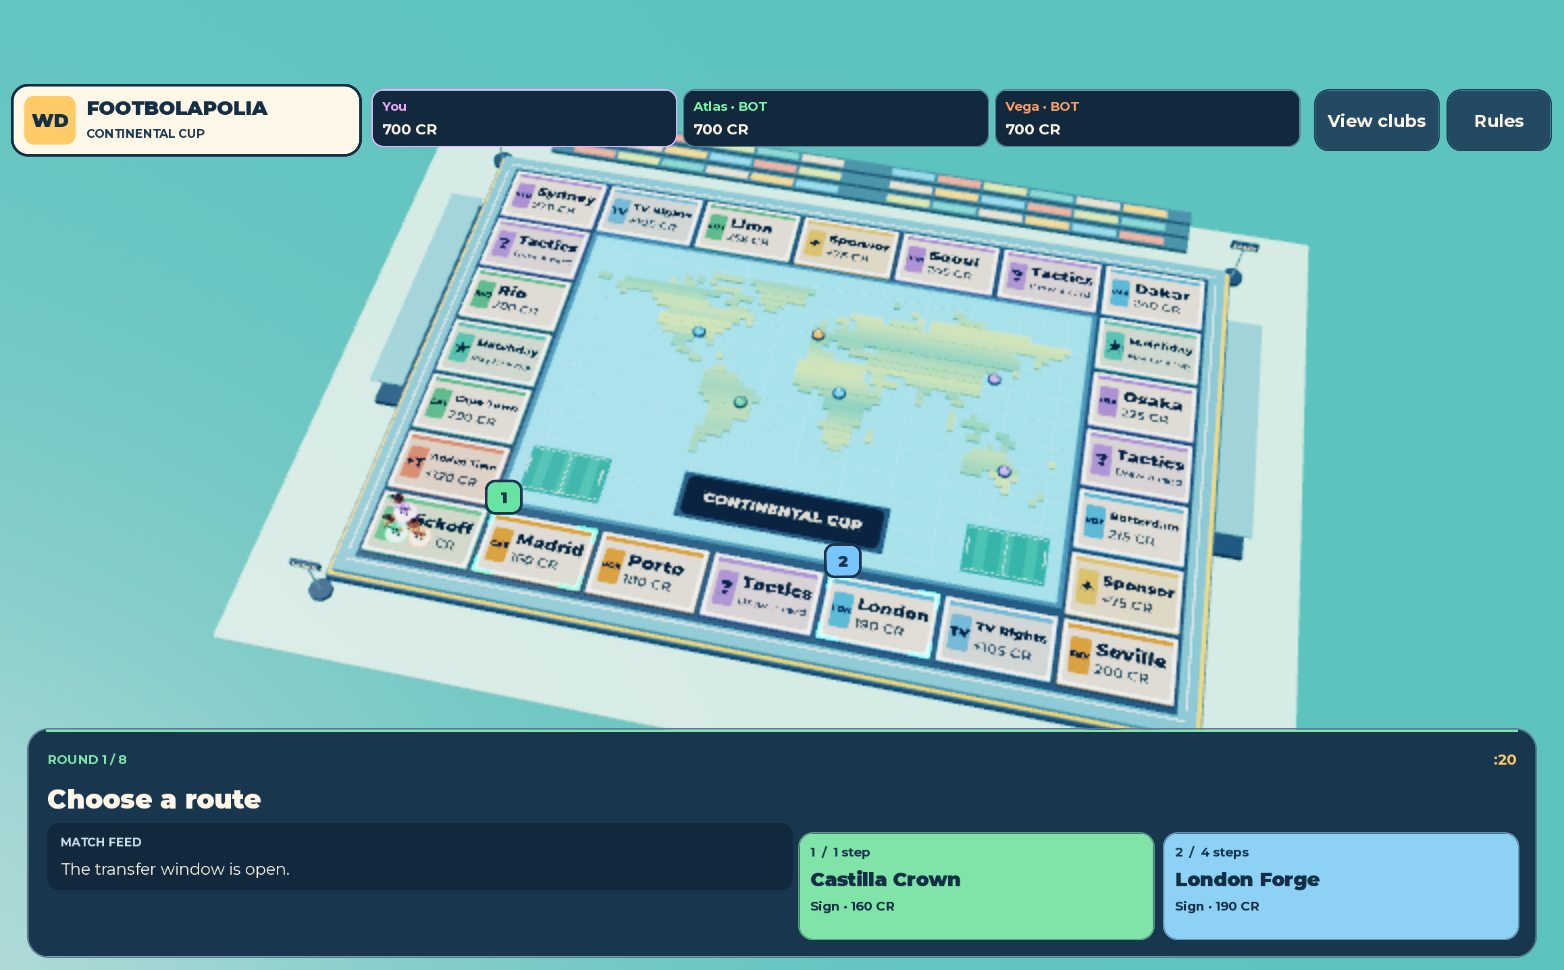
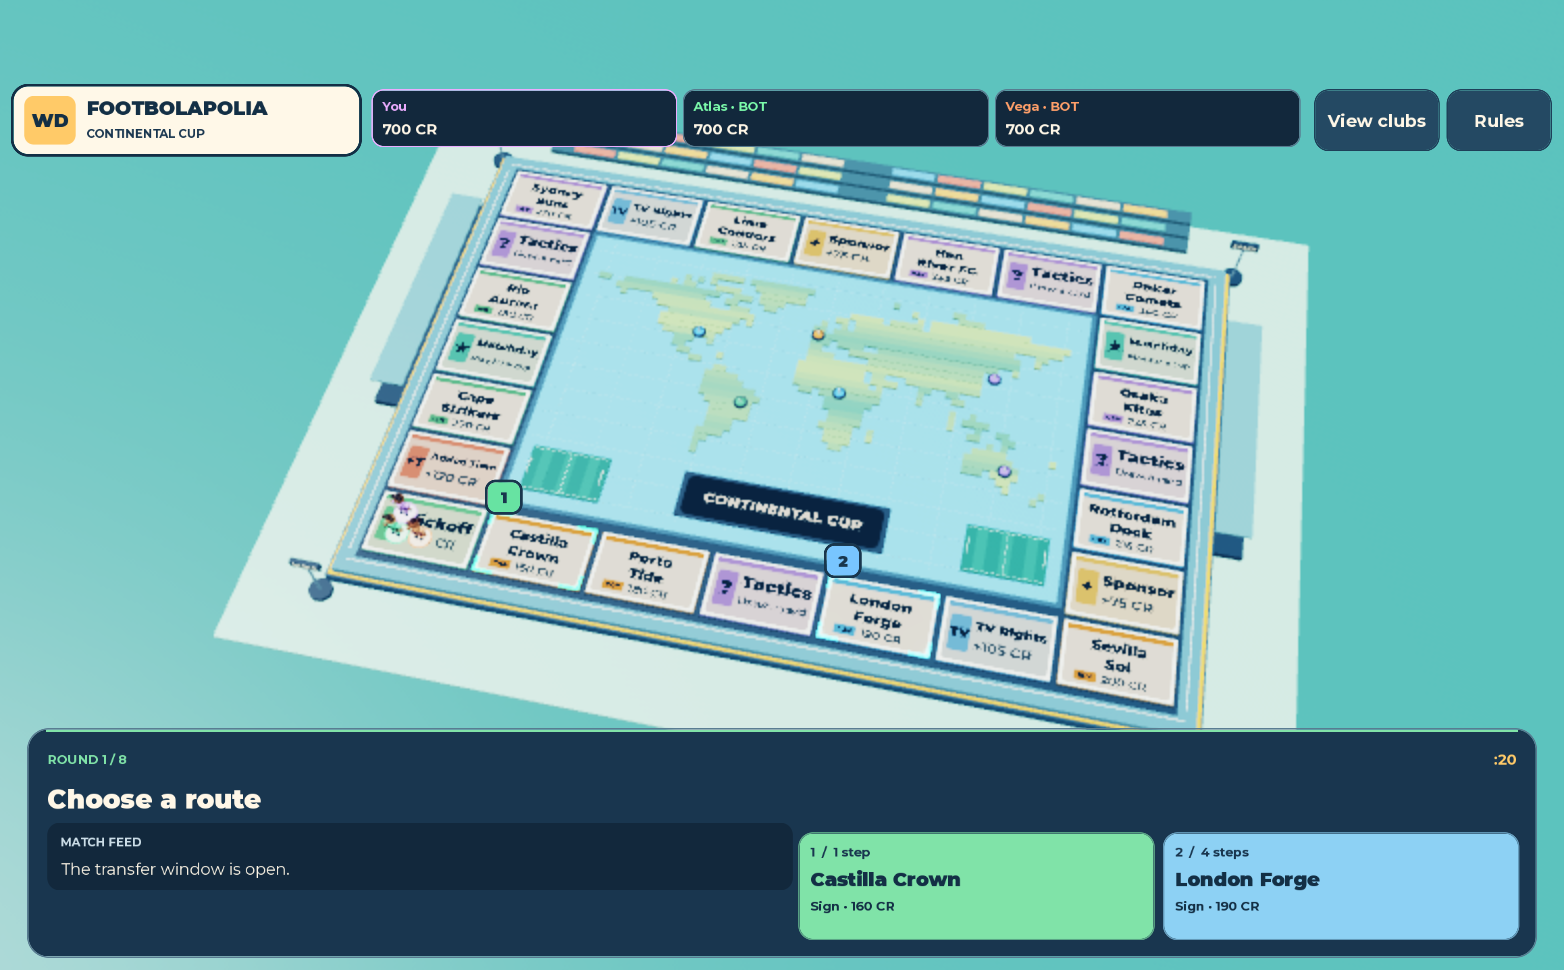
Show full football club names on board cells

diff --git a/docs/ART_DIRECTION.md b/docs/ART_DIRECTION.md
@@ -5,7 +5,7 @@
 | Элемент | Как работает в игре |
 | --- | --- |
 | Арена | Кубковый стол со светлой картой, рельефом суши, подсветкой маршрутов, трибунами и двумя тренировочными полями. |
-| Клетки | На 24 плашках приведены код клуба, город и цена либо тип события. Клик или касание открывают карточку с полным названием и актуальным состоянием. |
+| Клетки | На клубных плашках крупно указано полное название клуба. Под ним стоят код клуба и цена. Отдельные клетки показывают названия событий. Клик или касание открывают карточку с городом и актуальным состоянием клуба. |
 | Ход | Маркеры 1 и 2 на поле соответствуют кнопкам, где видны длина маршрута, пункт назначения и последствия. Фигурка разворачивается перед ходом, прыгает по клеткам и останавливается с коротким акцентом при касании. |
 | События | Подписание, стадион, полная лига, карта тактики и финал получают краткую плашку поверх поля. Для гола, сейва и офсайда траектории мяча отличаются. |
 | Доступность | Нижняя панель на широком экране, увеличенная нижняя панель в портрете, боковая панель на коротком широком экране. Режим сокращённой анимации следует настройке Roblox и доступен в правилах. Маркеры маршрута различаются цифрой и цветом. |

diff --git a/README.md b/README.md
@@ -18,7 +18,7 @@
 - **Следующая минута:** открыть каталог, объяснить набор из трёх клубов и 8-раундовый горизонт; показать, почему часть кредитов нужно оставлять на следующий контракт. Навести на различия между соло и партией с друзьями.
 - **Технический разговор:** чистая модель правил тестируется вне Roblox; сервер принимает только намерения игрока и владеет экономикой; клиенты рисуют состояние и движение. Просроченное или повторное действие не меняет баланс. Показать QA, Git историю, воронку и решение начать монетизацию с косметики.
 
-Этот репозиторий — **играбельная сборка v0.3 Continental Cup**, подготовленная для портфолио и закрытого теста. Публичного Roblox experience, реальных лицензий, платежей, постоянной прогрессии и данных живой аудитории в поставке нет.
+Этот репозиторий — **играбельная сборка v0.3.1 Continental Cup**, подготовленная для портфолио и закрытого теста. Публичного Roblox experience, реальных лицензий, платежей, постоянной прогрессии и данных живой аудитории в поставке нет.
 
 ## Сборка из исходников
 

diff --git a/docs/QA.md b/docs/QA.md
@@ -1,8 +1,8 @@
 # Проверки Footbolapolia
 
-## v0.3, арена Continental Cup
+## v0.3.1, арена Continental Cup
 
-- Studio проверяет наличие 24 подписанных клеток, обзор всех центров клеток камерой и попадание кнопок в безопасную зону экрана.
+- Studio проверяет наличие 24 подписанных клеток, совпадение названий и цен клубов с каталогом, обзор всех центров клеток камерой и попадание кнопок в безопасную зону экрана.
 - Полный сценарий проходит через выбор фигурки, два маршрута с явно указанными ставками, подписание клуба, Matchday и итоговую таблицу. QA проверяет появление плашки подписания и модели кубка.
 - Портретный iPhone XR и альбомное окно 640 × 300 проверяются в Device Simulator. В настольном сценарии Roblox VirtualInput нажимает клетку и закрывает карточку.
 - Снимок из Studio проверяется отдельно. Положение доски и направление надписей скорректированы по первому снимку. Производительность и касания на физических телефонах идут в закрытый тест.
